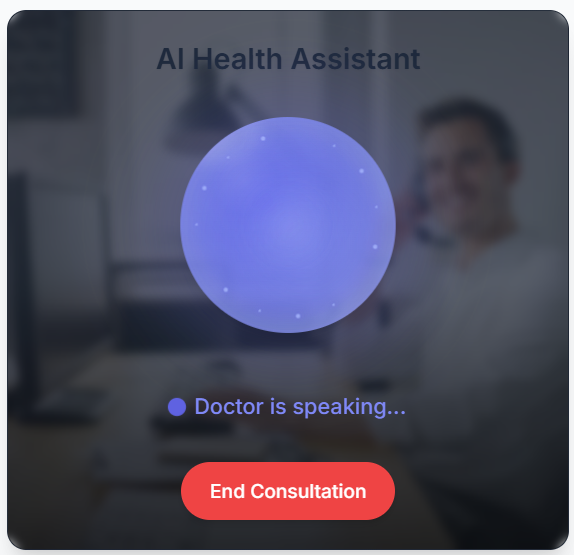
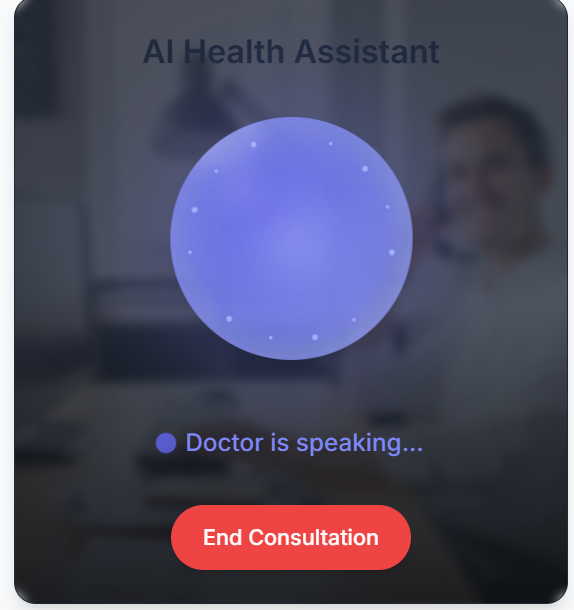
Added Voice Based Medical Suite Feature , Updated README.md

diff --git a/Main Dashboard/app/consultant/page.jsx b/Main Dashboard/app/consultant/page.jsx
@@ -1,0 +1,289 @@
+"use client"
+
+import { useEffect, useState, useCallback, useMemo, useRef } from "react"
+import Link from "next/link"
+import Image from "next/image"
+import { motion, AnimatePresence } from "framer-motion"
+import { Mic, Volume2, Share, Clock, Activity, Wand2 } from "lucide-react"
+import { useVapiCall } from "@/hooks/useVapiCall"
+import VoiceOrb from "@/components/ActiveCallDetail"
+import Button from "@/components/base/Button"
+import { redirect } from "next/navigation"
+
+const formatTasksForPrompt = (tasks) => {
+  if (!tasks || tasks.length === 0) return "[]"
+  return JSON.stringify(tasks, null, 2)
+}
+
+export default function VoiceAgentCard1() {
+  const [tasks, setTasks] = useState([])
+  const [tasksLoading, setTasksLoading] = useState(true)
+  const [tasksError, setTasksError] = useState(null)
+  const [isListening, setIsListening] = useState(false)
+  const [isSubmitting, setIsSubmitting] = useState(false)
+  const [processSuccess, setProcessSuccess] = useState(false)
+  const [isClient, setIsClient] = useState(false)
+  const wasCallActiveRef = useRef(false);
+
+  const fetchTasks = async () => {
+    setTasksLoading(true)
+    try {
+      const response = await fetch('/api/task')
+      if (!response.ok) throw new Error(`Failed to fetch tasks: ${response.status}`)
+      const data = await response.json()
+      setTasks(Array.isArray(data) ? data : [])
+    } catch (error) {
+      console.error("Error fetching tasks:", error)
+      setTasksError(error.message)
+    } finally {
+      setTasksLoading(false)
+    }
+  }
+
+  useEffect(() => {
+    fetchTasks()
+  }, [])
+
+  useEffect(() => {
+    setIsClient(true)
+  }, [])
+
+  // Effect to reload page when call ends
+
+
+  const dynamicAssistantOptions = useMemo(() => ({
+    name: "Dr. Harper",
+    firstMessage: `Hi Dear! It's Dr. Harper, your personal health assistant. I can help manage your health tasks for today. What would you like to know about your schedule, or would you like to update any tasks?`,
+    transcriber: {
+      provider: "deepgram",
+      model: "nova-2",
+      language: "en-US",
+    },
+    voice: {
+      provider: "openai",
+      voiceId: "alloy",
+    },
+    model: {
+      provider: "openai",
+      model: "gpt-4",
+      messages: [
+        {
+          role: "system",
+          content: `You are Dr. Harper, a friendly and personable AI health assistant for Sanskar. Your primary role is to help Sanskar manage their scheduled health-related tasks for the day.
+
+You have access to Sanskar's list of tasks. Each task has an hour, a purpose, and a status (done or not done).
+
+SCHEDULED TASKS:
+${formatTasksForPrompt(tasks)}
+
+Your responsibilities include:
+- Also you don't say the name Sanskar any time.
+- Reminding Sanskar about upcoming tasks.
+- Answering questions about the tasks.
+- Helping Sanskar mark tasks as completed.
+- Providing encouragement and motivation related to completing the tasks.
+- Discussing adjustments to the schedule if needed.
+- Creating new tasks or updating existing ones as requested.
+
+IMPORTANT INSTRUCTIONS FOR TASK MANAGEMENT:
+
+1. CREATING TASKS:
+   When Sanskar wants to add a new task, clearly note the hour and purpose.
+   Example: "I'll add a new task for yoga at 5:00 PM."
+
+2. UPDATING TASKS:
+   When updating an existing task, always mention both the original task and the updated details.
+   Example: "I'll update your lunch task from 'Prepare and eat a healthy lunch' to 'Salad with grilled chicken' at 12:00 PM."
+
+3. MARKING TASKS COMPLETE:
+   When marking tasks as complete, clearly confirm this.
+   Example: "I've marked your morning walk as completed. Great job!"
+
+4. FINAL SUMMARY:
+   Before ending the conversation, ALWAYS provide a clear summary section using exactly this format:
+
+   "TASK SUMMARY:
+   - NEW TASK: [Hour] - [Purpose]
+   - UPDATED TASK: Original '[Original Purpose]' changed to '[New Purpose]' at [Hour]
+   - COMPLETED: [Hour] - [Purpose]"
+
+   If no tasks were modified, state: "TASK SUMMARY: No tasks were created or modified during this session."
+
+This format is crucial for the system to correctly process task changes after the conversation.
+
+Maintain a supportive, friendly, and encouraging tone throughout. Focus on managing Sanskar's daily health schedule effectively. Avoid giving specific medical advice beyond the scope of the scheduled tasks.`,
+        },
+      ],
+    },
+  }), [tasks]);
+
+  const {
+    vapiInstance,
+    connecting,
+    connected,
+    assistantIsSpeaking,
+    volumeLevel,
+    transcript,
+    showPublicKeyInvalidMessage,
+    startCall,
+    endCall,
+    error
+  } = useVapiCall(dynamicAssistantOptions)
+
+  const handleEndCallAndProcessTranscript = useCallback(async () => {
+    setIsSubmitting(true)
+    setProcessSuccess(false)
+    const currentTranscript = transcript
+    endCall()
+    
+
+    try {
+      const response = await fetch('/api/process-transcript', {
+        method: 'POST',
+        headers: { 'Content-Type': 'application/json' },
+        body: JSON.stringify({ transcript: currentTranscript }),
+      })
+
+      if (response.ok) {
+        await fetchTasks()
+        setProcessSuccess(true)
+        window.location.reload()
+      }
+    } catch (error) {
+      console.error("Error:", error)
+    } finally {
+      setIsSubmitting(false)
+    }
+  }, [transcript, endCall])
+
+  const modalVariants = {
+    hidden: { opacity: 0, scale: 0.8 },
+    visible: { opacity: 1, scale: 1 },
+    exit: { opacity: 0, scale: 0.8 }
+  }
+
+  const isCallActive = connected || connecting
+
+  const vapiReady = isClient && !!vapiInstance && !tasksLoading
+
+  return (
+    <div className="block" onClick={(e) => isCallActive && e.preventDefault()}>
+      <div className="relative bg-gradient-to-br from-[#1a1f2e] to-[#2C3440] rounded-2xl overflow-hidden shadow-lg border border-gray-800/50 h-[450px] hover:shadow-xl transition-all duration-300 group">
+        <div className="absolute inset-0 bg-[url('https://images.pexels.com/photos/8867374/pexels-photo-8867374.jpeg?auto=compress&cs=tinysrgb&w=1260&h=750&dpr=1')] bg-cover bg-center opacity-20 group-hover:opacity-25 transition-opacity duration-300" />
+        <div className="absolute inset-0 bg-gradient-to-t from-black/60 via-transparent to-transparent" />
+
+        <div className="relative p-6 h-full backdrop-blur-sm">
+          {/* Show card content only when call is not active */}
+          {!isCallActive && (
+            <>
+              <div className="flex justify-between items-start mb-6">
+                <div>
+                  <div className="flex items-center gap-2 mb-1">
+                    <Wand2 className="w-5 h-5 text-emerald-400" />
+                    <h3 className="font-medium text-xl bg-gradient-to-r from-white to-gray-300 bg-clip-text text-transparent">
+                      Personal AI Powered Assistant
+                    </h3>
+                  </div>
+                  <p className="text-gray-400 text-sm">
+                    {tasksLoading ? "Loading tasks..." : `${tasks.length} tasks scheduled`}
+                  </p>
+                  <p className="text-gray-400 text-xs mt-2">
+                    Your Healthcare Assistant
+                  </p>
+                </div>
+                <button
+                  onClick={(e) => {
+                    e.preventDefault()
+                    if (vapiReady && !isCallActive) startCall()
+                  }}
+                  className="rounded-full p-4 transition-all transform hover:scale-105 bg-gray-800/80 text-gray-300 hover:bg-emerald-500/20 hover:text-emerald-400"
+                  disabled={!vapiReady}
+                >
+                  <Mic className="w-6 h-6" />
+                </button>
+              </div>
+
+              <div className="grid grid-cols-2 gap-5 mt-8">
+                <div className="flex items-center gap-3 p-3 rounded-xl bg-white/5 backdrop-blur-sm">
+                  <div className="w-10 h-10 rounded-lg bg-emerald-500/20 flex items-center justify-center text-emerald-400">
+                    <Volume2 className="w-5 h-5" />
+                  </div>
+                  <div>
+                    <p className="text-xs text-gray-400 font-medium">Voice Models</p>
+                    <p className="text-sm font-semibold text-white">English</p>
+                  </div>
+                </div>
+
+                <div className="flex items-center gap-3 p-3 rounded-xl bg-white/5 backdrop-blur-sm">
+                  <div className="w-10 h-10 rounded-lg bg-emerald-500/20 flex items-center justify-center text-emerald-400">
+                    <Activity className="w-5 h-5" />
+                  </div>
+                  <div>
+                    <p className="text-xs text-gray-400 font-medium">Accuracy</p>
+                    <p className="text-sm font-semibold text-white">80%</p>
+                  </div>
+                </div>
+
+                <div className="flex items-center gap-3 p-3 rounded-xl bg-white/5 backdrop-blur-sm">
+                  <div className="w-10 h-10 rounded-lg bg-emerald-500/20 flex items-center justify-center text-emerald-400">
+                    <Clock className="w-5 h-5" />
+                  </div>
+                  <div>
+                    <p className="text-xs text-gray-400 font-medium">Avg. Session</p>
+                    <p className="text-sm font-semibold text-white">3 mins</p>
+                  </div>
+                </div>
+
+                <div className="flex items-center gap-3 p-3 rounded-xl bg-white/5 backdrop-blur-sm">
+                  <div className="w-10 h-10 rounded-lg bg-emerald-500/20 flex items-center justify-center text-emerald-400">
+                    <Share className="w-5 h-5" />
+                  </div>
+                  <div>
+                    <p className="text-xs text-gray-400 font-medium">Assistant Connect</p>
+                    <p className="text-sm font-semibold text-white">Enabled</p>
+                  </div>
+                </div>
+              </div>
+            </>
+          )}
+
+          {/* Show call interface when call is active */}
+          {isCallActive && (
+            <div className="flex flex-col items-center justify-center h-full">
+              {connected && (
+                <VoiceOrb
+                  assistantIsSpeaking={assistantIsSpeaking}
+                  volumeLevel={volumeLevel}
+                  onEndCallClick={handleEndCallAndProcessTranscript}
+                />
+              )}
+              {connecting && !connected && (
+                <div className="text-white font-medium">
+                  <div className="animate-spin w-8 h-8 border-4 border-emerald-500/20 border-t-emerald-500 rounded-full mb-3 mx-auto" />
+                  Connecting...
+                </div>
+              )}
+              {isSubmitting && (
+                <div className="text-emerald-400 text-sm mt-4 animate-pulse">
+                  Processing transcript...
+                </div>
+              )}
+            </div>
+          )}
+
+          {showPublicKeyInvalidMessage && (
+            <div className="mt-4 px-4 py-3 bg-red-500/20 border border-red-500/20 text-red-300 rounded-xl text-sm text-center backdrop-blur-sm">
+              Please check your Vapi Public Key in .env settings.
+            </div>
+          )}
+
+          {error && (
+            <div className="mt-4 px-4 py-3 bg-red-500/20 border border-red-500/20 text-red-300 rounded-xl text-sm text-center backdrop-blur-sm">
+              Error: {error.message || "An unknown error occurred."}
+            </div>
+          )}
+        </div>
+      </div>
+    </div>
+  )
+}

diff --git a/README.md b/README.md
@@ -74,12 +74,25 @@ A futuristic healthcare platform powered by voice, vision, and multi-agent AI sy
 
 ---
 
-### 🤖Personalised Voice Agent (VAPI)  Preview
+### 🤖 Personalised Voice Agent (VAPI) Preview
 
 ![Personalised Voice Agent Screenshot 1](./assets/Personal-voice-agent.png)  
-![Personalised Voice Agent Screenshot 1](./assets/Personal-voice-agent-2.png)  
-
 
 ---
 
+- **Voice-Based Medical Suite (Symptom Consultation)**  
+  A comprehensive voice-powered assistant that enables users to consult symptoms, book appointments, and receive preliminary health reports—all through natural conversation.
+  Users can verbally describe their health symptoms to the assistant, which intelligently interprets and analyzes the input to provide potential diagnoses, suggest care paths, or escalate to a medical professional. The suite also supports voice-activated appointment scheduling and automated report generation for symptom history and consultation summaries.
+
+  **🧾 Description:** Voice assistant for symptom input, appointment booking, and report sharing.  
+  **⚙ Built With:** Vapi speech model, and smart calendar/email APIs.  
+  **🧩 Solves:** Complicated bookings and lack of early diagnosis tools.
+
+---
+
+### 🤖 Voice Based Medical Suite Preview
+
+![Voice Based Medical Suite](./assets/Symptom-Assistant.png)  
+
+---
 
